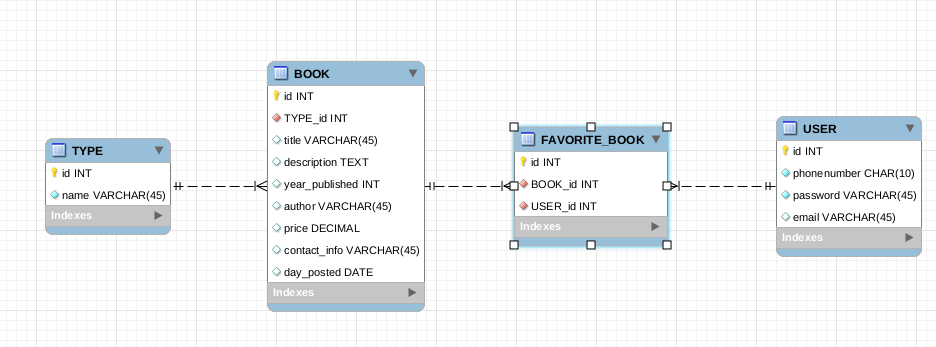
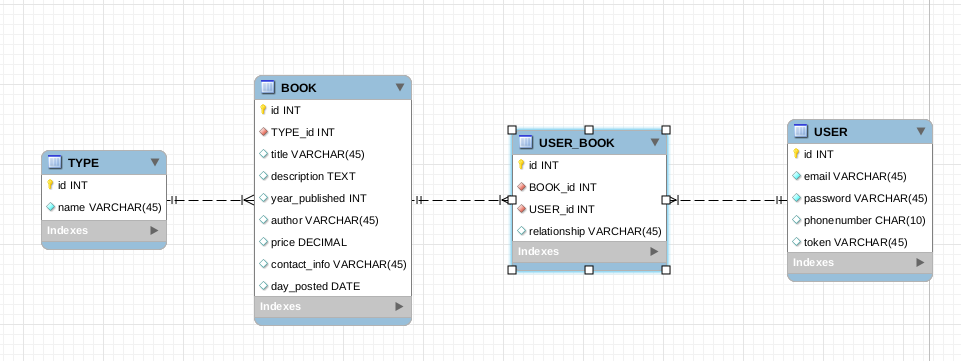
add UserService

diff --git a/src/main/java/plusplus/OldBookSeller/services/UserService.java b/src/main/java/plusplus/OldBookSeller/services/UserService.java
@@ -1,26 +1,174 @@
 package plusplus.OldBookSeller.services;
 
+import org.springframework.beans.factory.annotation.Autowired;
+import org.springframework.data.domain.Pageable;
 import org.springframework.stereotype.Service;
+import plusplus.OldBookSeller.reponsitory.BookReponsitory;
+import plusplus.OldBookSeller.reponsitory.UserBookRelationshipRepository;
 import plusplus.OldBookSeller.reponsitory.UserRepository;
+import plusplus.OldBookSeller.reponsitory.entity.Book;
 import plusplus.OldBookSeller.reponsitory.entity.User;
+import plusplus.OldBookSeller.reponsitory.entity.UserBookRelationship;
+
+
+import java.security.SecureRandom;
+import java.util.List;
 
 @Service
 public class UserService {
+    private static final String CHAR_LOWER = "abcdefghijklmnopqrstuvwxyz";
+    private static final String CHAR_UPPER = CHAR_LOWER.toUpperCase();
+    private static final String DATA_FOR_RANDOM_STRING = CHAR_UPPER;
+    private static SecureRandom random = new SecureRandom();
+    @Autowired
+    SendEmailService sendEmailService;
     UserRepository userRepository;
-    public String login(String email,String password)
-    {
-        if(userRepository.existsByEmailAndPassword(email,password))
+    BookReponsitory bookReponsitory;
+    UserBookRelationshipRepository userBookRelationshipRepository;
+    public String login(String email, String password) {
+        if (userRepository.existsByEmailAndPassword(email, password))
             return "Login successfull";
         else
-            return "Wrong email or password"
+            return "Wrong email or password";
     }
-    public String register(String email,String password,String phonenumber,String token)
+
+    public String register(String email, String password, String phonenumber, String token) {
+        User temporaryUser = userRepository.findOneByEmail(email);
+        if (temporaryUser == null)
+            return "Please click sent token button";
+        if (temporaryUser.getPassword() != null)
+            return "Email has already regitered"
+        String sentToken = temporaryUser.getToken();
+        if (!sentToken.equals(token))
+            return "Wrong token, please check or send another token ";
+        temporaryUser.setPassword(password);
+        temporaryUser.setPhonenumber(phonenumber);
+        userRepository.save(temporaryUser);
+        return "Register success";
+    }
+
+    public String sendTokenToEmail(String email) {
+        User temporaryUser = userRepository.findOneByEmail(email);
+        String token = generateRandomString(6);
+        if (temporaryUser == null) {
+            temporaryUser = new User(email, token);
+        } else {
+            temporaryUser.setToken(token);
+        }
+        userRepository.save(token);
+        sendEmailService.sendEmail("Token",email,token);
+        return "Sent token to email";
+    }
+
+    public String retrievePassword(String email,String token) {
+        sendTokenToEmail(email);
+        User temporaryUser = userRepository.findOneByEmail(email);
+        if ( temporaryUser.getPassword() == null)
+            return "Email have not been registerd";
+        String sentToken = temporaryUser.getToken();
+        if (!sentToken.equals(token))
+            return "Wrong token, please check or send another token ";
+        return "Password: " + temporaryUser.getPassword();
+    }
+
+    public List<Book> booksInType(int typeID, Pageable pageable) {
+        try {
+            return bookReponsitory.findAllByType(typeID, pageable);
+        } catch (Exception e) {
+            e.printStackTrace();
+            return null;
+        }
+    }
+
+    public List<Book> booksHaveTitle(String title, Pageable pageable) {
+        try {
+            return bookReponsitory.findByTitle(title, pageable);
+        } catch (Exception e) {
+            e.printStackTrace();
+            return null;
+        }
+    }
+
+    public Book bookInDetail(int id) {
+        try {
+            return bookReponsitory.findOneById(id);
+        } catch (Exception e) {
+            e.printStackTrace();
+            return null;
+        }
+    }
+
+    public User userInfo(String email) {
+        try {
+            return userRepository.findOneByEmail(email);
+        } catch (Exception e) {
+            e.printStackTrace();
+            return null;
+        }
+    }
+    public String markFavoriteBook(int bookID,int userID)
     {
-        if(userRepository.existsByEmail(email))
-            return "Email has already existed";
-        
-        User user = new User(email,password,phonenumber);
+        try {
 
+            userBookRelationshipRepository.save(new UserBookRelationship(bookID,userID,"like"));
+            return "Mark book successfully";
+        } catch (Exception e) {
+            e.printStackTrace();
+            return "Mark book failed";
+        }
     }
-
+    public String addBook(Book book,int userID){
+        try {
+            bookReponsitory.save(Book);
+            userBookRelationshipRepository.save(new UserBookRelationship(book.getId(),userID,"sell"));
+            return "Add book successfully";
+        } catch (Exception e) {
+            e.printStackTrace();
+            return "Add book failed";
+        }
+    }
+    public String updateBook(Book book,int userID)
+    {
+        try {
+            if(verifyUserBook(book.getId(),userID))
+                return "This is not your book";
+            bookReponsitory.save(Book);
+            return "Update book successfully";
+        } catch (Exception e) {
+            e.printStackTrace();
+            return "Update book failed";
+        }
+    }
+    public String deleteBook(int bookID,int userID)
+    {
+        try {
+            if(verifyUserBook(bookID,userID))
+                return "This is not your book";
+            bookReponsitory.deleteById(bookID);
+            return "Delete book successfully";
+        } catch (Exception e) {
+            e.printStackTrace();
+            return "Delete book failed";
+        }
+    }
+    public boolean verifyUserBook(int bookID,int userID)
+    {
+        try {
+            return.userBookRelationshipRepository.existsByBookAndUserAndRelationship(bookID,userID,"sell");
+        } catch (Exception e) {
+            e.printStackTrace();
+            return false;
+        }
+    }
+    public static String generateRandomString(int length) {
+        if (length < 1) throw new IllegalArgumentException();
+        StringBuilder sb = new StringBuilder(length);
+        for (int i = 0; i < length; i++) {
+            // 0-62 (exclusive), random returns 0-61
+            int rndCharAt = random.nextInt(DATA_FOR_RANDOM_STRING.length());
+            char rndChar = DATA_FOR_RANDOM_STRING.charAt(rndCharAt);
+            sb.append(rndChar);
+        }
+        return sb.toString();
+    }
 }

diff --git a/src/main/java/plusplus/OldBookSeller/reponsitory/BookReponsitory.java b/src/main/java/plusplus/OldBookSeller/reponsitory/BookReponsitory.java
@@ -2,6 +2,7 @@ package plusplus.OldBookSeller.reponsitory;
 
 import org.springframework.data.domain.Pageable;
 import org.springframework.data.jpa.repository.JpaRepository;
+import org.springframework.data.jpa.repository.Query;
 import org.springframework.stereotype.Repository;
 import plusplus.OldBookSeller.reponsitory.entity.Book;
 
@@ -9,6 +10,9 @@ import java.util.List;
 @Repository
 public interface BookReponsitory extends JpaRepository<Book, Integer> {
     List<Book> findAllByTitleAndType(String title, Integer typeID, Pageable pageable);
+    List<Book> findAllByType( Integer typeID, Pageable pageable);
+    @Query(value = "SELECT * FROM BOOK WHERE title REGEXP '.*?1.*' ;",nativeQuery = true)
+    List<Book> findByTitle( String title, Pageable pageable);
     Book findOneById(Integer id);
     boolean existsById(Integer id);
 }

diff --git a/src/main/java/plusplus/OldBookSeller/reponsitory/entity/UserBookRelationship.java b/src/main/java/plusplus/OldBookSeller/reponsitory/entity/UserBookRelationship.java
@@ -8,12 +8,12 @@ import lombok.Setter;
 import javax.persistence.*;
 
 @Entity
-@Table(name = "FAVORITE_BOOK")
+@Table(name = "USER_BOOK")
 @Getter
 @Setter
 @AllArgsConstructor
 @NoArgsConstructor
-public class FavoriteBook {
+public class UserBookRelationship {
     @Id
     @GeneratedValue(strategy = GenerationType.IDENTITY)
     @Column(name = "id")
@@ -24,4 +24,12 @@ public class FavoriteBook {
     @ManyToOne
     @JoinColumn(name = "USER_id")
     private User user;
+    @Column(name = "relationship")
+    private String relationship;
+
+    public UserBookRelationship(Book book, User user, String relationship) {
+        this.book = book;
+        this.user = user;
+        this.relationship = relationship;
+    }
 }

diff --git a/src/main/java/plusplus/OldBookSeller/reponsitory/UserBookRelationshipRepository.java b/src/main/java/plusplus/OldBookSeller/reponsitory/UserBookRelationshipRepository.java
@@ -1,0 +1,14 @@
+package plusplus.OldBookSeller.reponsitory;
+
+import org.springframework.data.jpa.repository.JpaRepository;
+import org.springframework.stereotype.Repository;
+import plusplus.OldBookSeller.reponsitory.entity.UserBookRelationship;
+
+import java.util.List;
+
+@Repository
+public interface UserBookRelationshipRepository extends JpaRepository<UserBookRelationship, Integer> {
+    List<UserBookRelationship> findAllByUser(Integer userID);
+
+    boolean existsByBookAndUserAndRelationship(int bookID, int userID, String relationship);
+}

diff --git a/src/main/java/plusplus/OldBookSeller/reponsitory/entity/User.java b/src/main/java/plusplus/OldBookSeller/reponsitory/entity/User.java
@@ -26,4 +26,16 @@ public class User {
     private String phonenumber;
     @Column(name = "token")
     private String token;
+
+    public User(String email, String password, String phonenumber, String token) {
+        this.email = email;
+        this.password = password;
+        this.phonenumber = phonenumber;
+        this.token = token;
+    }
+
+    public User(String email, String token) {
+        this.email = email;
+        this.token = token;
+    }
 }

diff --git a/src/main/java/plusplus/OldBookSeller/services/SendEmailService.java b/src/main/java/plusplus/OldBookSeller/services/SendEmailService.java
@@ -1,10 +1,12 @@
 package plusplus.OldBookSeller.services;
 
+import org.springframework.stereotype.Service;
+
 import javax.mail.*;
 import javax.mail.internet.InternetAddress;
 import javax.mail.internet.MimeMessage;
 import java.util.Properties;
-
+@Service
 public class SendEmailService {
     final String username = "student.plusplus.academy@gmail.com";
     final String password = "123456aA@";

diff --git a/src/main/java/plusplus/OldBookSeller/reponsitory/UserRepository.java b/src/main/java/plusplus/OldBookSeller/reponsitory/UserRepository.java
@@ -8,7 +8,7 @@ import java.util.List;
 
 @Repository
 public interface UserRepository extends JpaRepository<User,Integer> {
-    List<User> findAllByEmail(String email);
+    User findOneByEmail(String email);
     boolean existsByEmail(String email);
     boolean existsByEmailAndPassword(String email,String password);
 }
